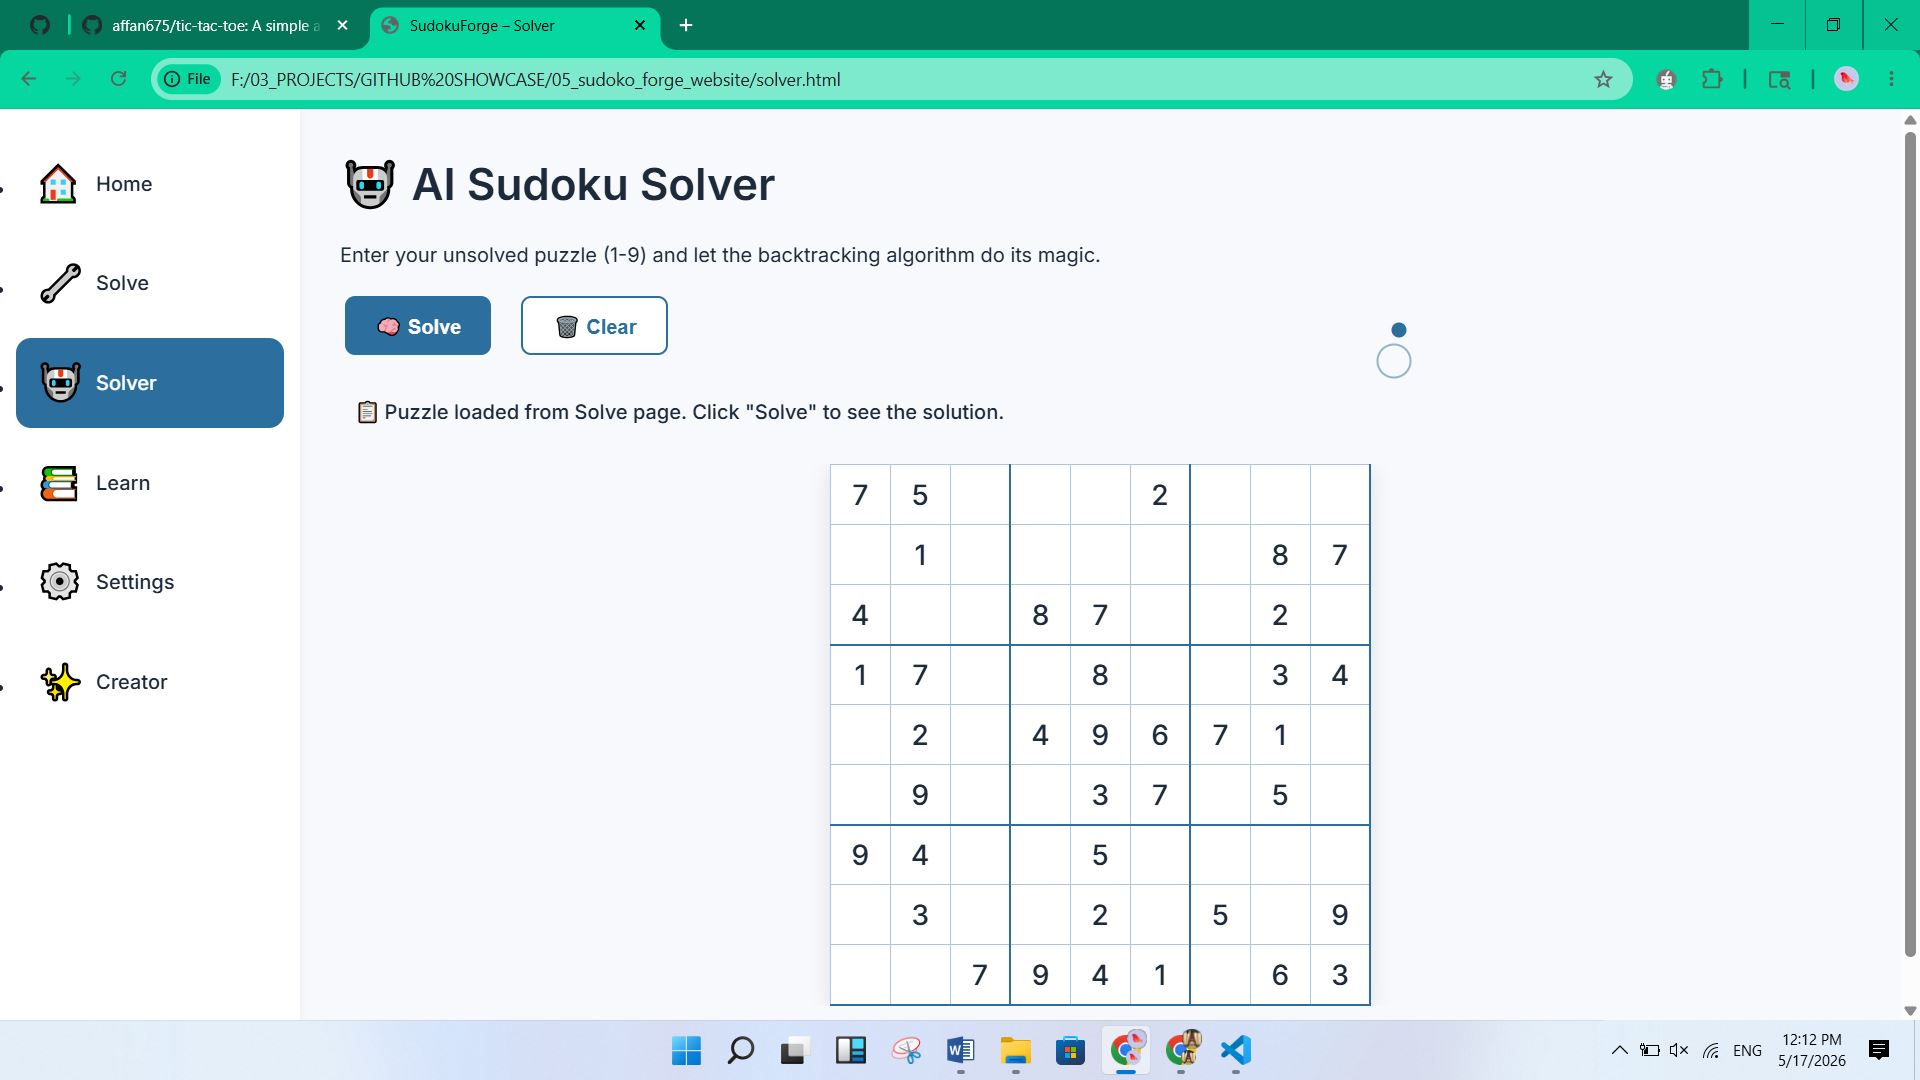
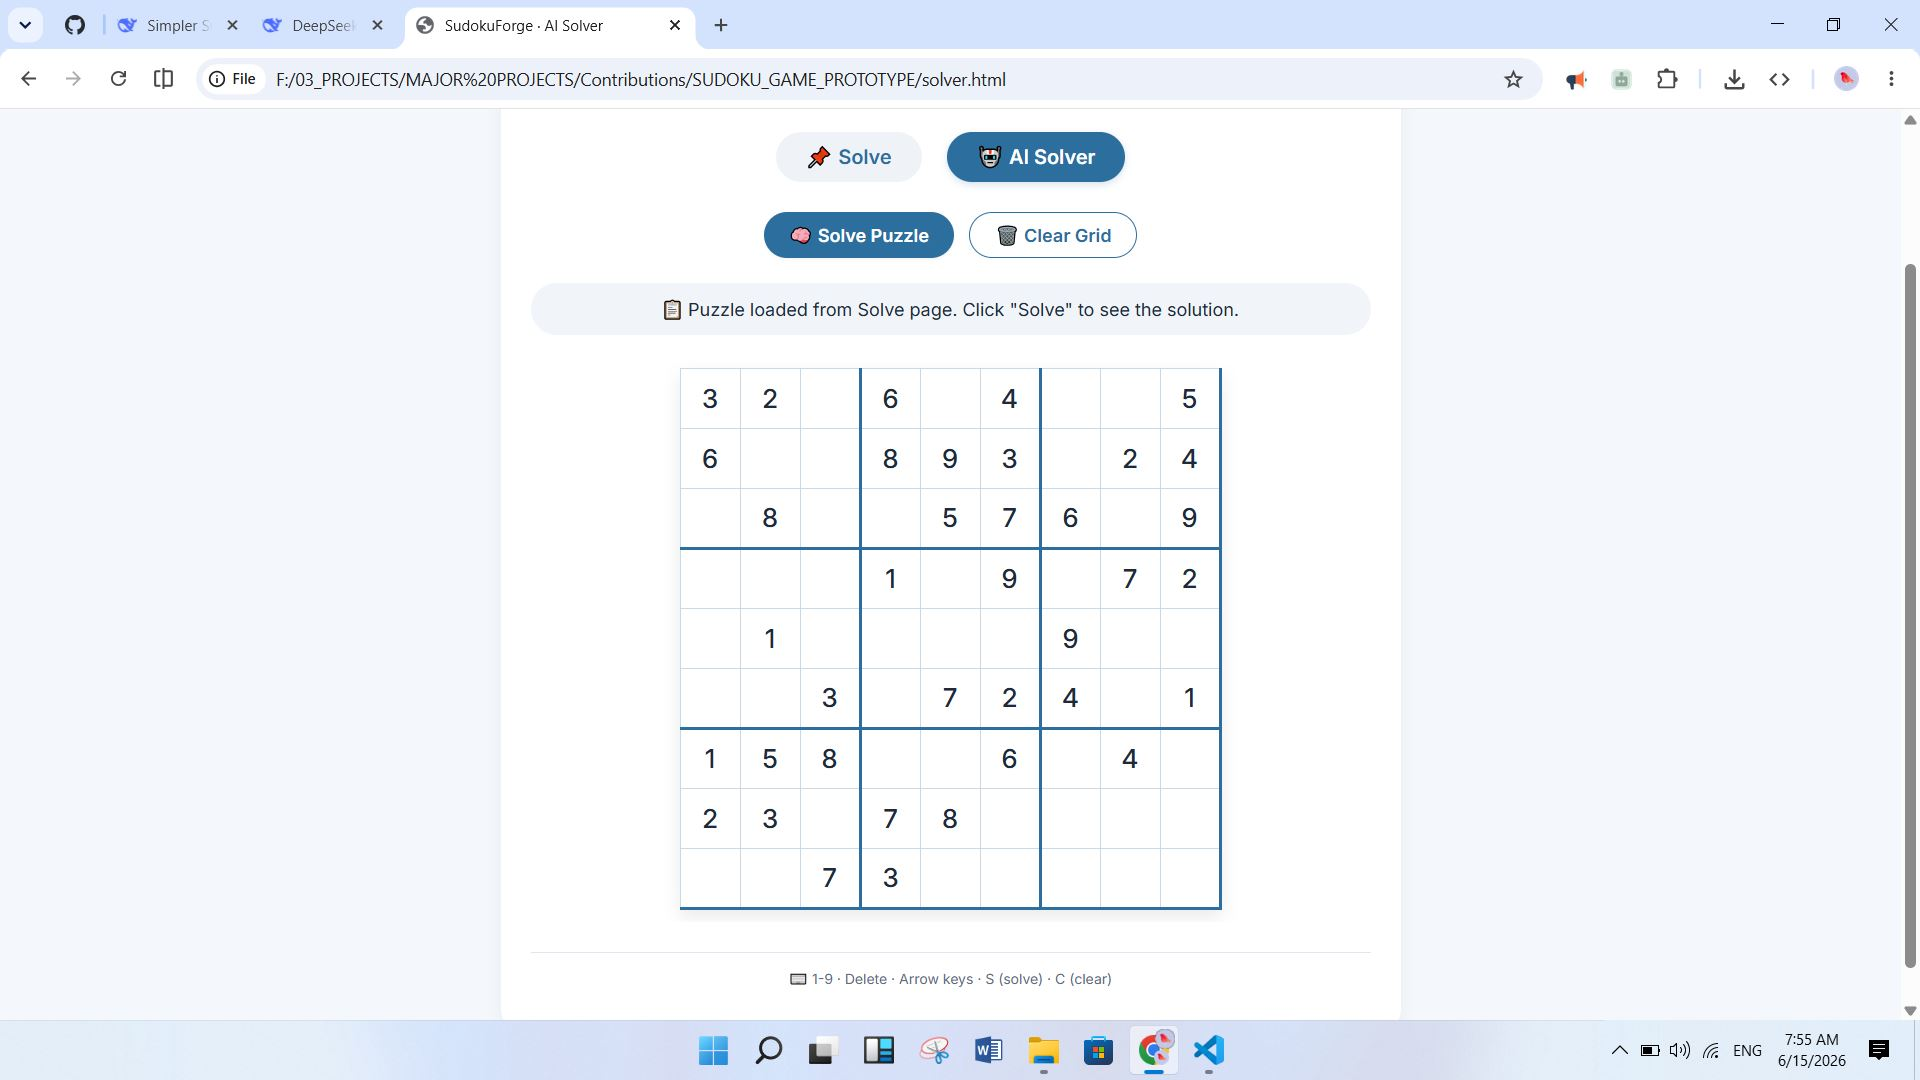
Screenshots Add

diff --git a/README.md b/README.md
@@ -3,7 +3,7 @@
 > Forge your logic. Solve the grid.
 
 <p align="center"> 
-  <img src="assets/screenshots/solve_page.JPG" alt="SudokuForge Solve" width="600" style="border-radius: 16px;"> 
+  <img src="assets/screenshots/solve.JPG" alt="SudokuForge Solve" width="600" style="border-radius: 16px;"> 
 </p>
 
 <p align="center"> 
@@ -39,7 +39,7 @@ All unnecessary extras have been removed, making it lightweight, fast, and easy 
 
 | Solve Page | AI Solver Page |
 | :---: | :---: |
-| !Solve Page | *(Add your screenshot here: ai_solver_page.png)* |
+| ![Solve Page](assets/screenshots/solve_page.JPG) | ![AI Solver Page](assets/screenshots/ai_solver.JPG) |
 
 ## 🛠 Tech Stack
 
